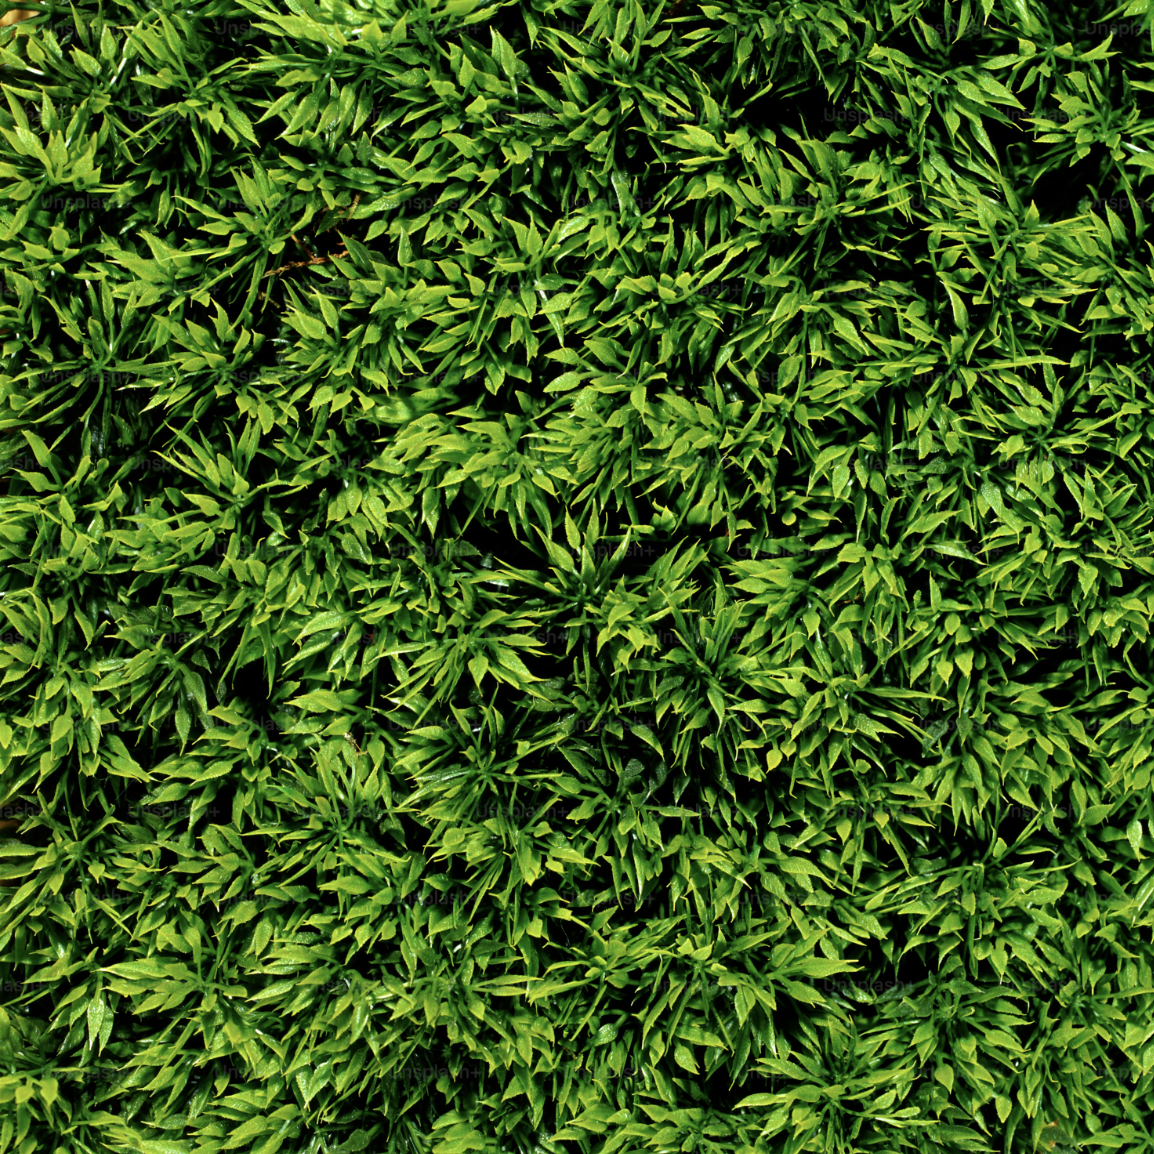
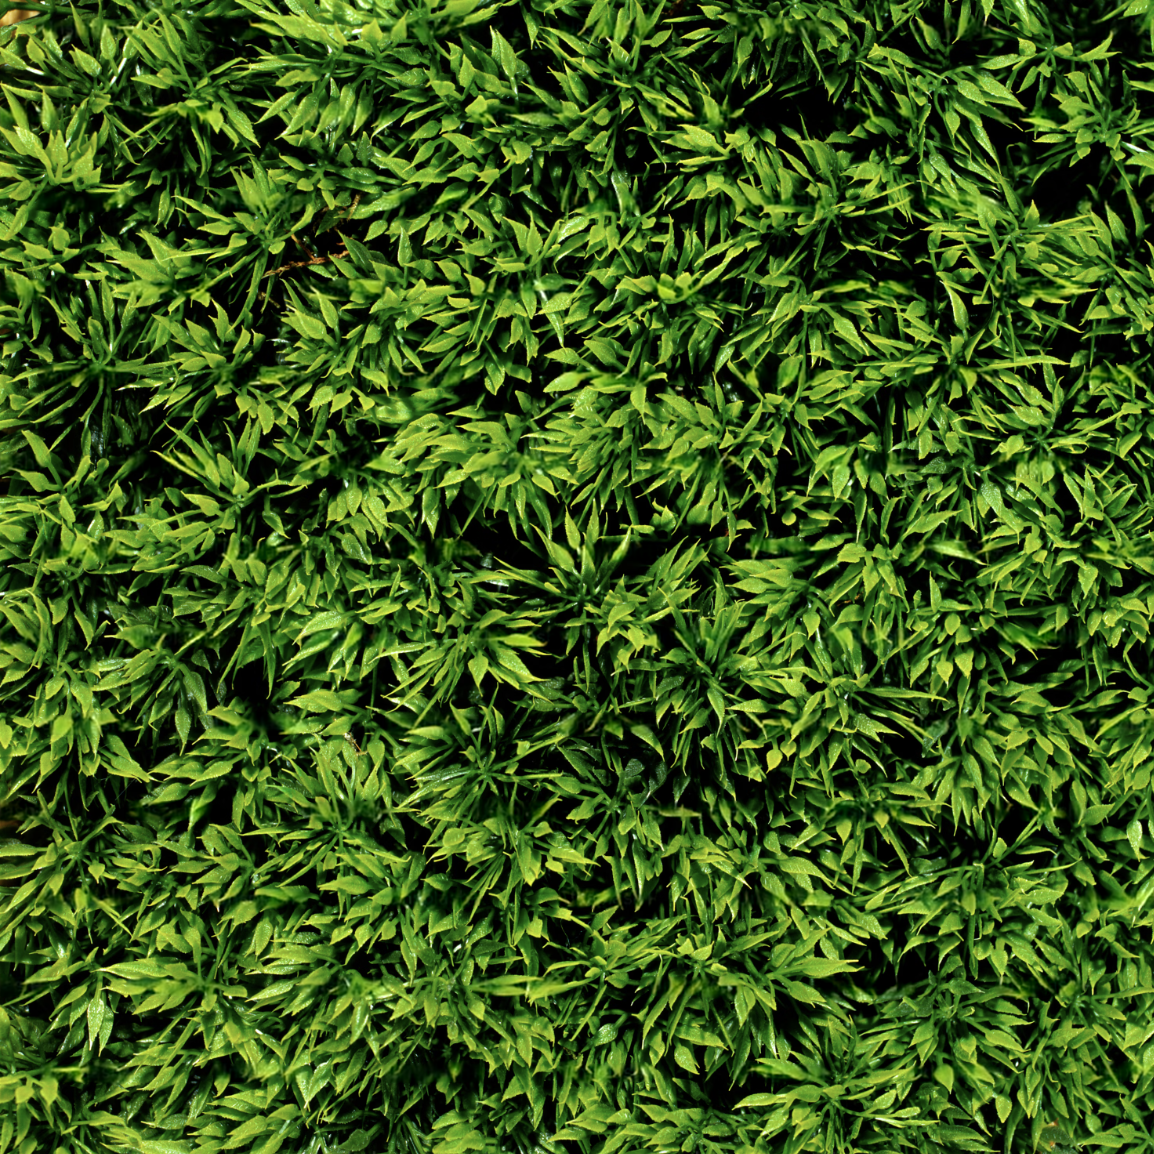
update hours and remove watermark background

diff --git a/src/app/page.tsx b/src/app/page.tsx
@@ -88,8 +88,8 @@ export default function Home() {
           className='flex flex-col mx-auto px-4 gap-8 pt-20'
           style={{
             backgroundImage: `url(${limeBasilBg.src})`,
-            backgroundSize: "35%", // Adjust to make it smaller
-            backgroundRepeat: "repeat", // Ensures the pattern repeats
+            backgroundSize: "35%",
+            backgroundRepeat: "repeat",
           }}
         >
           <BlackLabel text='Visit Us' size='text-xl' />
@@ -126,7 +126,7 @@ export default function Home() {
                   <p className='text-gray-600'>
                     Open Daily
                     <br />
-                    Monday - Sunday: 11:00 AM - 10:00 PM
+                    Monday - Sunday: 10:00 AM - 10:00 PM
                   </p>
                 </CardContent>
               </Card>
